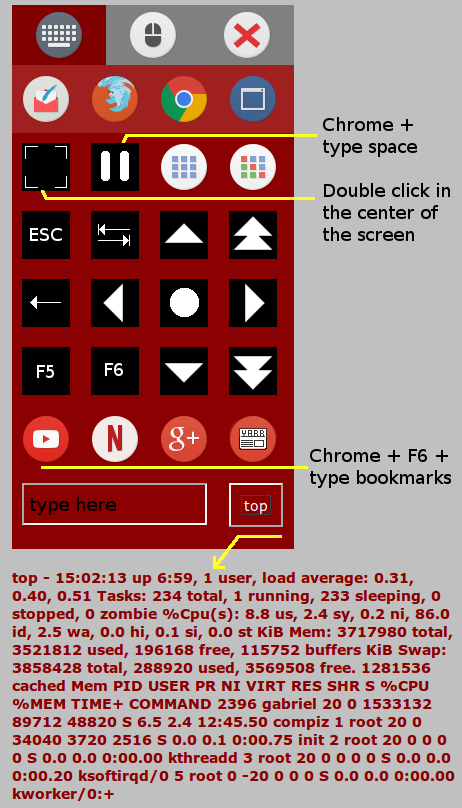
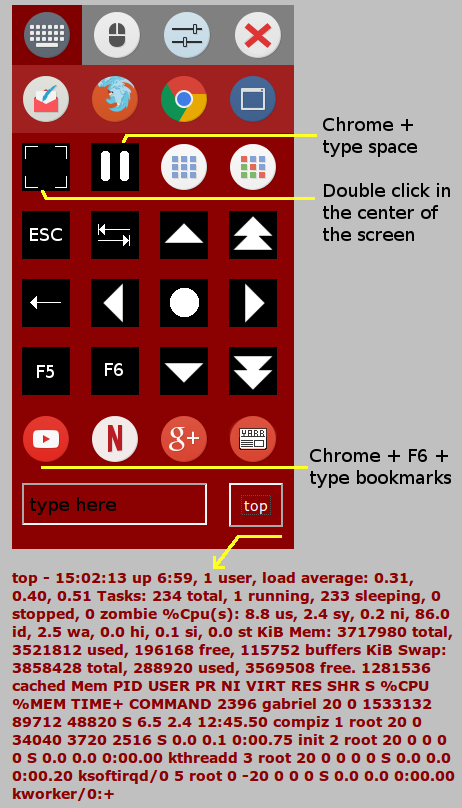
screenshots updated

Changed region(s): [[0.0303, 0.0, 0.4545, 0.0928], [0.4848, 0.0, 0.6061, 0.0928]]

diff --git a/www/index.html b/www/index.html
@@ -90,7 +90,8 @@ img{
  <tr>
    <td align="center" id="tab0" onclick="seltab(0)"><img src="/keyboard.png" class="tabs"></td>
    <td align="center" id="tab1" onclick="seltab(1)"><img src="/mouse.png"    class="tabs"></td>
-   <td align="center" id="tab2" onclick="seltab(2)"><img src="/close.png"    class="tabs"></td>
+   <td align="center" id="tab2" onclick="seltab(2)"><img src="/mix.png"      class="tabs"></td>
+   <td align="center" id="tab3" onclick="seltab(3)"><img src="/close.png"    class="tabs"></td>
  </tr>
 </tbody></table>
 
@@ -130,7 +131,7 @@ img{
    <td class="rev"><img src="/youtube.png"    onclick="cmd('pad14')"></td>
    <td class="rev"><img src="/netflix.png"    onclick="cmd('pad15')"></td>
    <td class="rev"><img src="/googleplus.png" onclick="cmd('pad16')"></td>
-   <td class="rev"><img src="/ln.png"         onclick="cmd('pad17')"></td>
+   <td class="rev"><img src="/news.png"       onclick="cmd('pad17')"></td>
  </tr>
  <tr><td class="rev" colspan=3><form onsubmit="return send_txt();">
  <input class="typer" type="text" name="typer"></form></td>
@@ -167,6 +168,33 @@ img{
    <td class="rev"><img src="/down.png"   onclick="cmd('pad11')"></td>
    <td class="rev"><img src="/pgdown.png" onclick="cmd('pad12')"></td>
    <td class="rev"><img src="/pause.png"  onclick="cmd('ytk')"></td>
+ </tr>
+
+<!--media-->
+<table class="center" id="media" cellpading=0 cellspacing=0><tbody>
+ <tr>
+   <td class="rev2"><img src="/clementine.png" onclick="cmd('clem')"></td>
+   <td class="rev2">&nbsp;</td>
+   <td class="rev2">&nbsp;</td>
+   <td class="rev2">&nbsp;</td>
+ </tr>
+ <tr>
+   <td class="rev">&nbsp;</td>
+   <td class="rev"><img src="/pgup.png"   onclick="cmd('pad51')"></td>
+   <td class="rev">&nbsp;</td>
+   <td class="rev"><img src="/up.png"     onclick="cmd('pad53')"></td>
+ </tr>
+ <tr>
+   <td class="rev">&nbsp;</td>
+   <td class="rev"><img src="/right.png"  onclick="cmd('pad55')"></td>
+   <td class="rev">&nbsp;</td>
+   <td class="rev">&nbsp;</td>
+ </tr>
+ <tr>
+   <td class="rev">&nbsp;</td>
+   <td class="rev"><img src="/pgdown.png" onclick="cmd('pad59')"></td>
+   <td class="rev">&nbsp;</td>
+   <td class="rev"><img src="/down.png"   onclick="cmd('pad61')"></td>
  </tr>
 
 <!--close-->
@@ -221,9 +249,11 @@ function send_txt() {
 function seltab(k){
  dk= "none";
  dm=dk;
+ dp= dk;
  dc= dk;
  bk="#808080"
  bm=bk;
+ bp=bk;
  bc=bk;
  if(k==0){
   dk= "";
@@ -231,6 +261,9 @@ function seltab(k){
  }else if(k==1){
   dm= "";
   bm="#800000";
+ }else if(k==2){
+  dp= "";
+  bp="#800000";
  }else{
   dc= "";
   bc="#800000";
@@ -239,8 +272,10 @@ function seltab(k){
  document.getElementById("tab0").style.backgroundColor=bk;
  document.getElementById("mouse").style.display= dm;
  document.getElementById("tab1").style.backgroundColor=bm;
+ document.getElementById("media").style.display= dp;
+ document.getElementById("tab2").style.backgroundColor=bp;
  document.getElementById("close").style.display= dc;
- document.getElementById("tab2").style.backgroundColor=bc;
+ document.getElementById("tab3").style.backgroundColor=bc;
 }
 function m_rel_abs() {
  mmove= 1-mmove;
